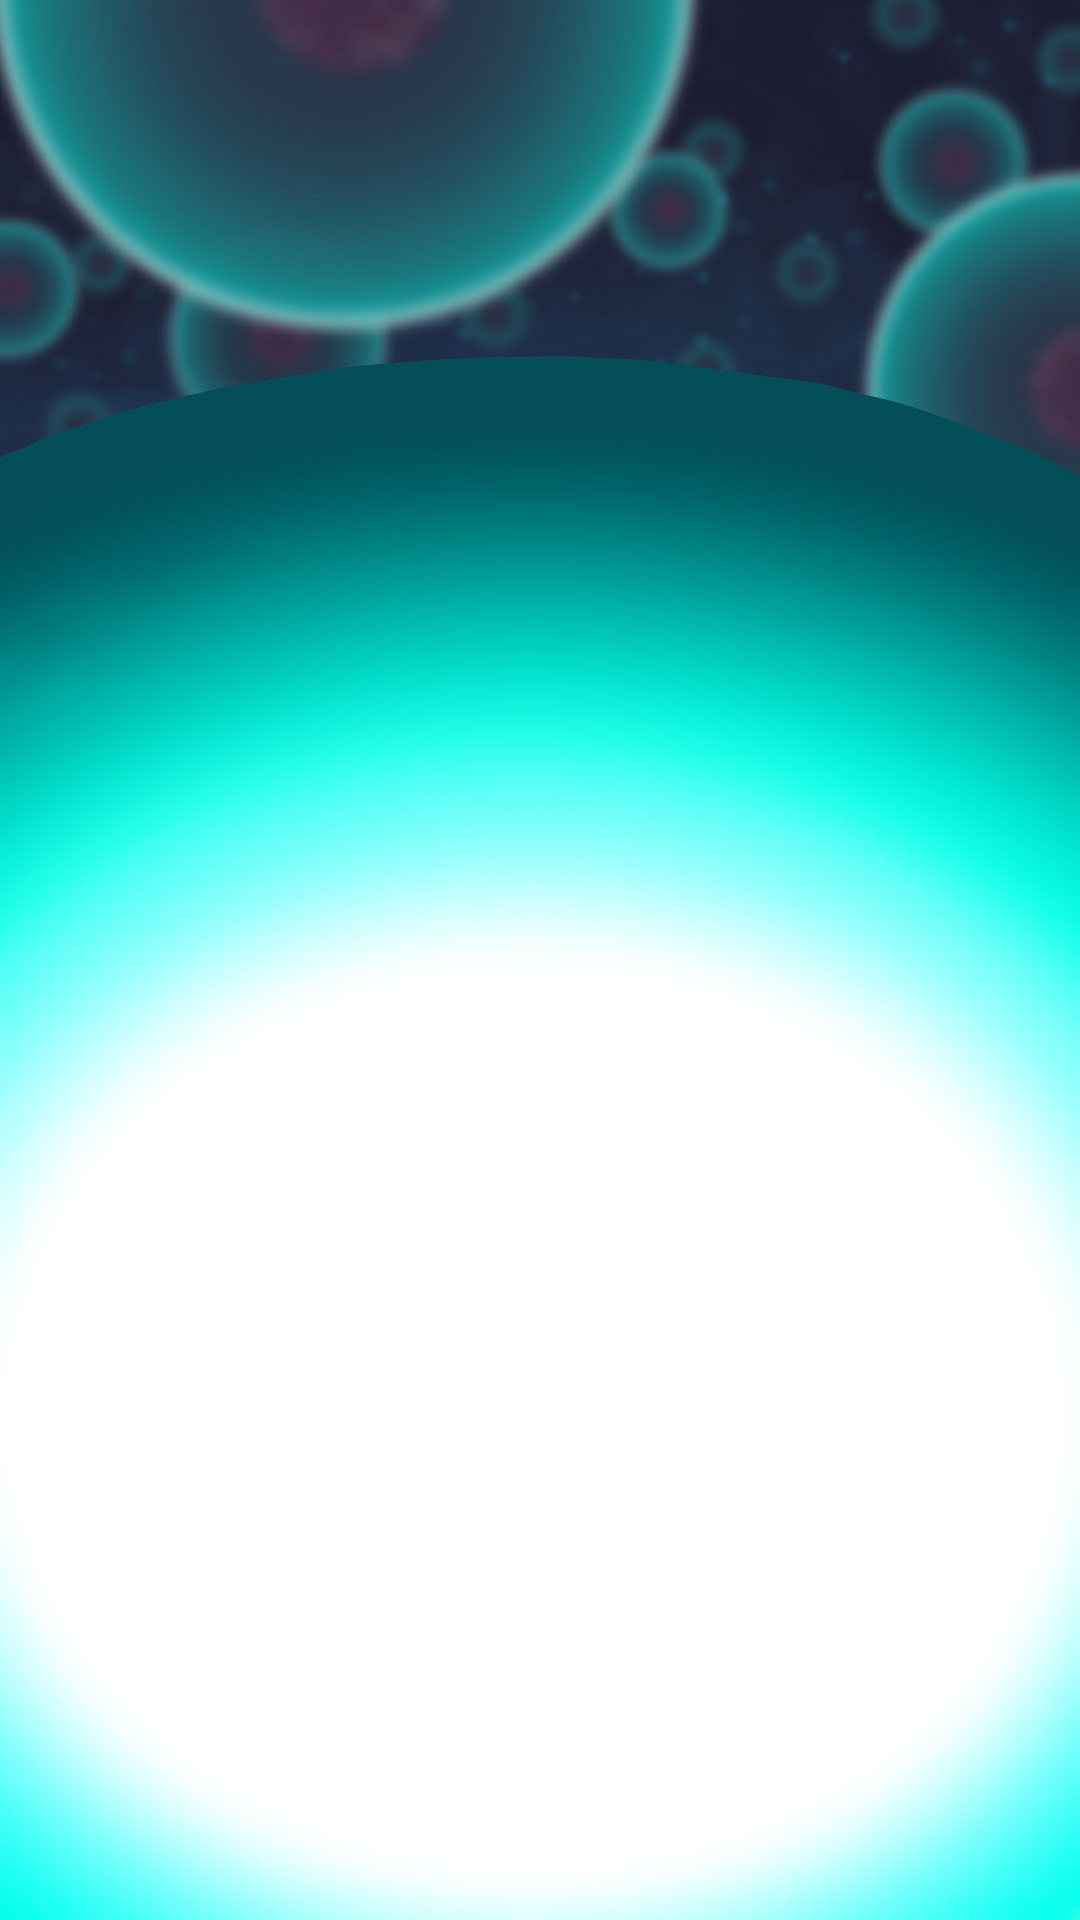
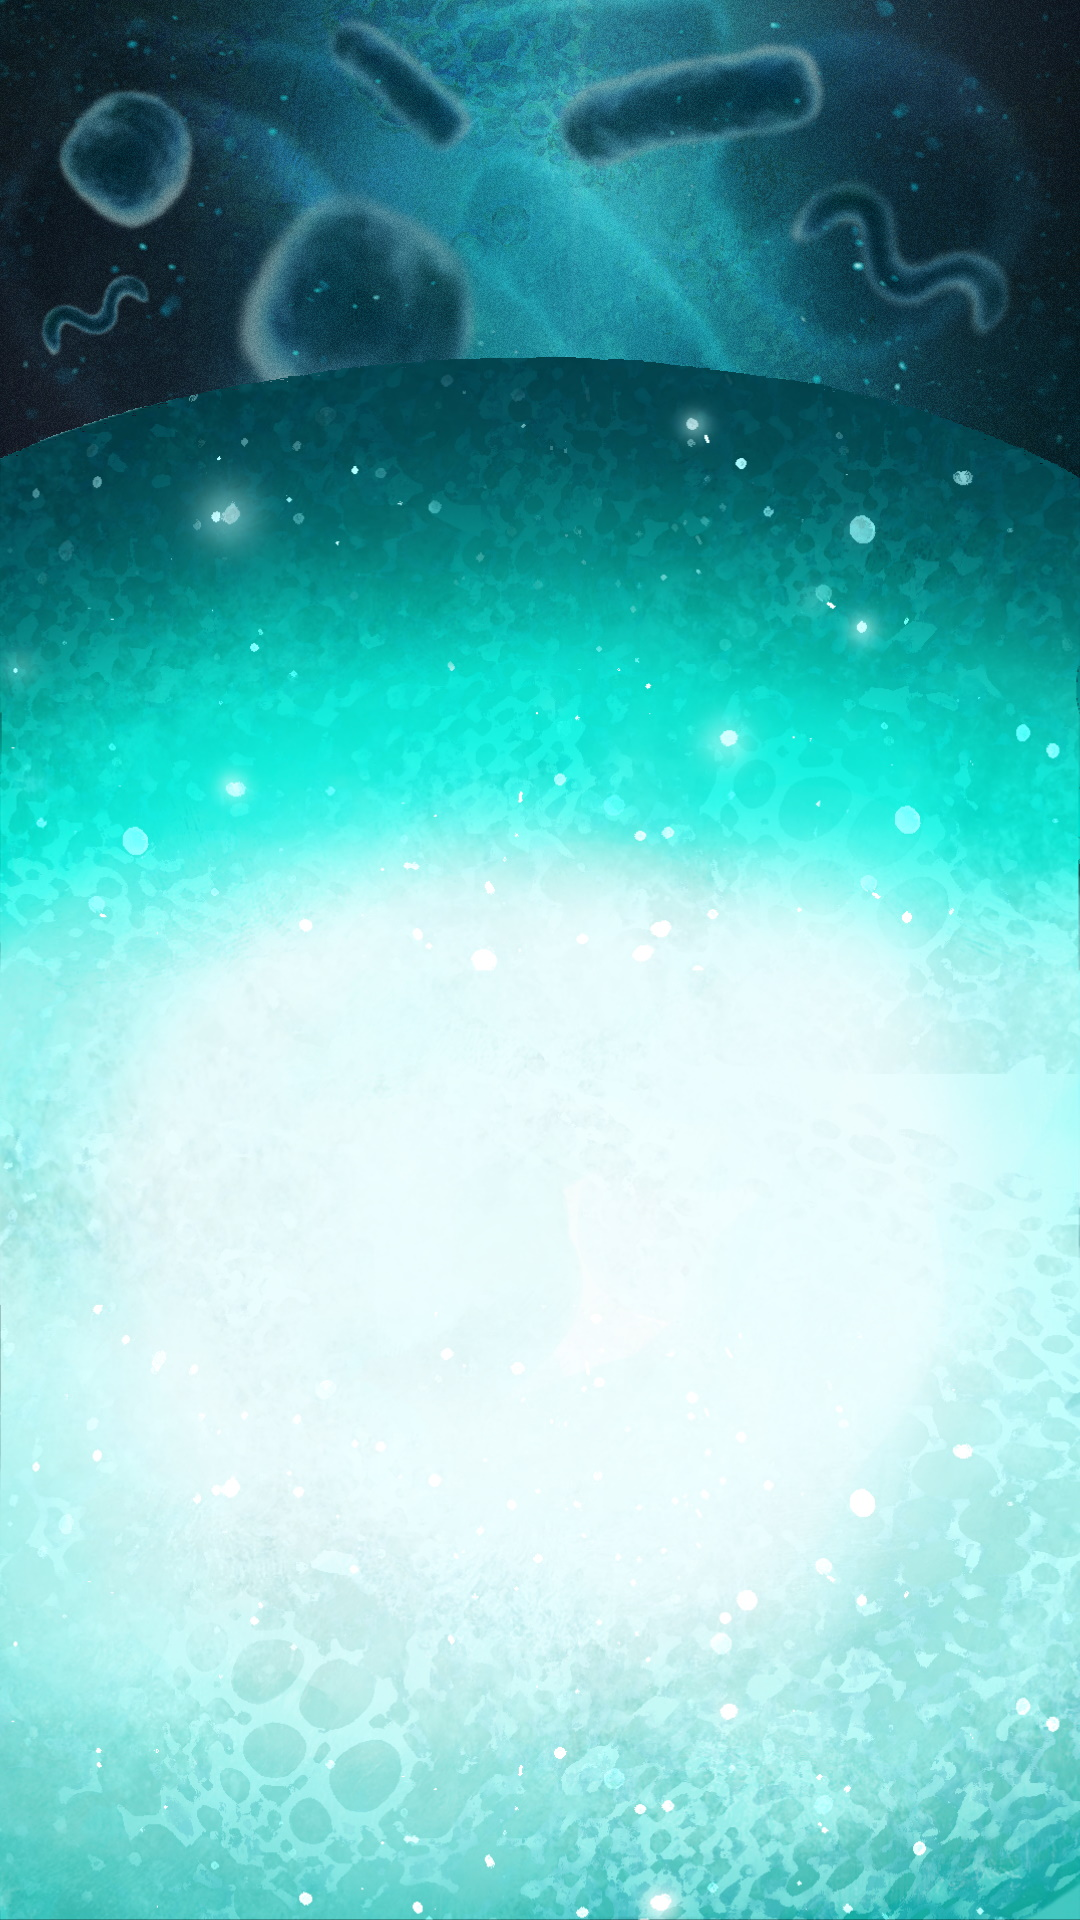
imtegrate scissor bubbles & new background

diff --git a/src/entities/sequence.ts b/src/entities/sequence.ts
@@ -350,7 +350,7 @@ export class SequenceManager extends entity.CompositeEntity {
     );
   }
 
-  matchesSequence(_path: path.Path): "no match" | "missing scissors" | true {
+  matchesSequence(_path: path.Path): path.PathState {
     // TODO: perhaps this should only work if one and only one sequence matches?
     if (
       typeof this.level.variant === "object" &&
@@ -482,7 +482,10 @@ export class Sequence extends entity.CompositeEntity {
     for (let i = 0; i < this.baseLength; i++) {
       const position = new PIXI.Point();
 
-      if (this.level.options.variant === "zen" || this.level.options.sequenceRounded) {
+      if (
+        this.level.options.variant === "zen" ||
+        this.level.options.sequenceRounded
+      ) {
         crispr.positionAlongMembrane(
           position,
           crispr.proportion(

diff --git a/src/scenes/level.ts b/src/scenes/level.ts
@@ -961,7 +961,7 @@ export class Level extends entity.CompositeEntity {
     return new entity.EntitySequence(context);
   }
 
-  public setGoButtonText(text: string) {
+  public setGoButtonText(text: path.PathState) {
     if (!this.options.disableButton) this.goButton.setText(text);
   }
 
@@ -969,8 +969,8 @@ export class Level extends entity.CompositeEntity {
     if (this.path.items.length > 0) {
       const match = this.sequenceManager.matchesSequence(this.path);
       if (match === true) {
-        if (this.options.variant === "zen") this.setGoButtonText("CRUNCH");
-        else this.setGoButtonText("MATCH");
+        if (this.options.variant === "zen") this.setGoButtonText("crunch");
+        else this.setGoButtonText("matching");
       } else {
         this.setGoButtonText(match);
       }

diff --git a/src/entities/hud.ts b/src/entities/hud.ts
@@ -4,6 +4,7 @@ import * as entity from "booyah/src/entity";
 import * as tween from "booyah/src/tween";
 
 import * as popup from "./popup";
+import * as path from "./path";
 
 import * as crispr from "../crispr";
 import * as anim from "../animations";
@@ -369,8 +370,8 @@ export class ActionButton extends entity.CompositeEntity {
     this._entityConfig.container.removeChild(this.container);
   }
 
-  public setText(text: string) {
-    this.missingScissorsSprite.visible = text === "MISSING\nSCISSORS";
+  public setText(text: path.PathState) {
+    this.missingScissorsSprite.visible = text === "missing scissors";
     // this.text.style.fontSize = text.length > 6 ? 50 : 70;
     // this.text.text = text;
   }

diff --git a/src/entities/nucleotide.ts b/src/entities/nucleotide.ts
@@ -442,6 +442,11 @@ export class Nucleotide extends entity.CompositeEntity {
       animatedSprite.sprite.animationSpeed = 0;
       // Start on a random frame
       animatedSprite.sprite.gotoAndStop(0);
+
+      const bubble = crispr.sprite(this, "images/bubble.png");
+      bubble.anchor.set(0.5);
+
+      animatedSprite.sprite.addChild(bubble);
     } else {
       throw new Error("Unhandled type");
     }

diff --git a/src/levels.ts b/src/levels.ts
@@ -22,8 +22,7 @@ export const levels = {
       forceMatching: false,
       maxScore: 5000,
       checks: {
-        "Middle score reached": (ctx) =>
-          ctx.score >= ctx.options.maxScore / 2,
+        "Middle score reached": (ctx) => ctx.score >= ctx.options.maxScore / 2,
         "Max score reached": (ctx) => ctx.score >= ctx.options.maxScore,
       },
       hooks: [

diff --git a/src/entities/path.ts b/src/entities/path.ts
@@ -9,6 +9,14 @@ import * as level from "../scenes/level";
 
 import * as anim from "../animations";
 
+export type PathState =
+  | "no match"
+  | "missing scissors"
+  | true
+  | "crunch"
+  | "matching"
+  | "SKIP";
+
 /**
  * Represent the user path to validate sequences
  * Emits:

diff --git a/src/game.ts b/src/game.ts
@@ -64,6 +64,7 @@ const graphicalAssets = [
   "images/bonus_time_disabled.png",
 
   "images/hole.png",
+  "images/bubble.png",
 
   "images/infection_red.png",
   "images/infection_blue.png",
